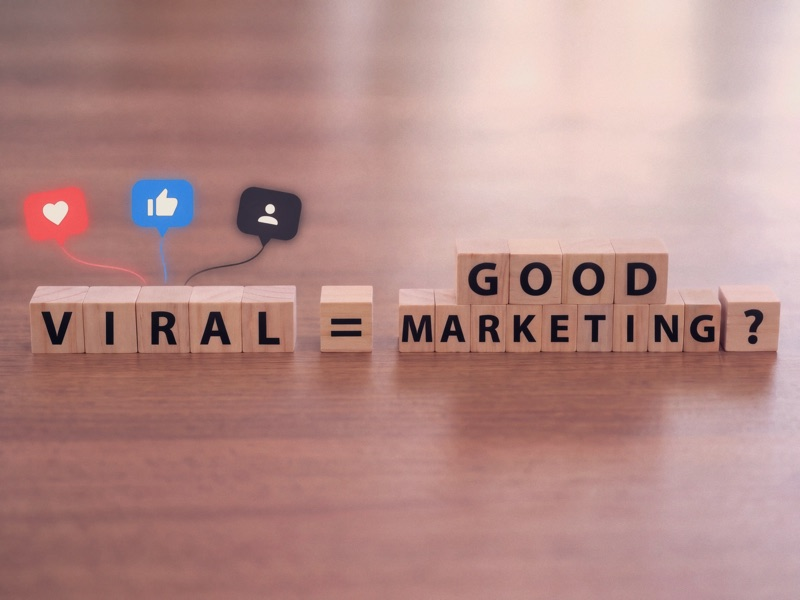
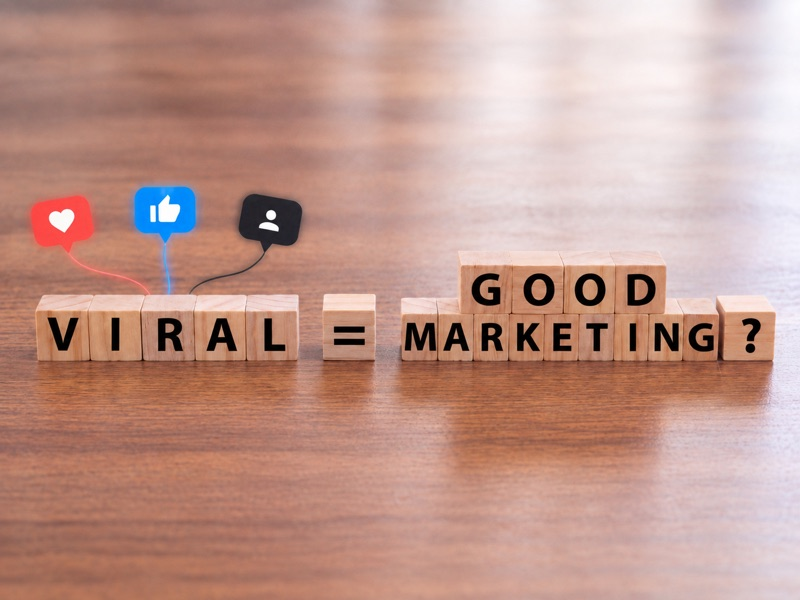
Swap in the sharper cover, trim the meta description, republish
Cover: replaced blog-you-dont-need-to-go-viral-cover.jpg/-sm.jpg with the
new drop (you don't need to be viral 2.png), a sharper version of the
same shot, already exactly 1448x1086 so no cropping was needed. Same
filenames as before, so no HTML changes required.

Broadened the raw-drop gitignore rule from "images/* final.png" (only
matched files literally ending " final.png") to "images/* *.png" /
"*.jpg" / "*.jpeg" - any filename with a space, which is a clean general
test since every real asset in images/ is kebab-case with no spaces by
the site's own convention. The previous narrower rule missed the two
other raw drops from this round ("you don't have to be viral final
2.png", "you don't need to be viral 2.png"); verified real assets like
the logo still aren't caught by the new pattern.

SEO: found the meta description running 187 characters - past Google's
~155-160 cutoff, so it was getting truncated in search results. Trimmed
to 148 characters, same meaning, applied everywhere it's duplicated
(<meta name="description">, og:description, twitter:description). Left
the listing page's visible excerpt (same original text) alone - that's
human-facing card copy with no search-snippet length limit, so shortening
it there would have been change for its own sake.

Confirmed elsewhere already correct and untouched: single h1 per page,
canonical URLs matching sitemap.xml exactly, robots.txt allowing /blog,
no noindex tag, title tag well under 60 characters.

diff --git a/blog-you-dont-need-to-go-viral.html b/blog-you-dont-need-to-go-viral.html
@@ -13,19 +13,19 @@
 <meta charset="utf-8" />
 <meta name="viewport" content="width=device-width, initial-scale=1" />
 <title>You Don't Need to go Viral | Navren</title>
-<meta name="description" content="Why most businesses do not need to go viral, what the research on audience targeting actually shows, and a four-step framework for marketing that produces outcomes instead of impressions." />
+<meta name="description" content="Why most businesses do not need to go viral, what the research on audience targeting shows, and a four-step framework for outcomes over impressions." />
 <link rel="canonical" href="https://navrenagency.com/blog-you-dont-need-to-go-viral" />
 <meta property="og:type" content="article" />
 <meta property="og:site_name" content="Navren" />
 <meta property="og:url" content="https://navrenagency.com/blog-you-dont-need-to-go-viral" />
 <meta property="og:title" content="You Don't Need to go Viral | Navren" />
-<meta property="og:description" content="Why most businesses do not need to go viral, what the research on audience targeting actually shows, and a four-step framework for marketing that produces outcomes instead of impressions." />
+<meta property="og:description" content="Why most businesses do not need to go viral, what the research on audience targeting shows, and a four-step framework for outcomes over impressions." />
 <meta property="og:image" content="https://navrenagency.com/images/blog-you-dont-need-to-go-viral-cover.jpg" />
 <meta property="og:image:width" content="1448" />
 <meta property="og:image:height" content="1086" />
 <meta name="twitter:card" content="summary_large_image" />
 <meta name="twitter:title" content="You Don't Need to go Viral | Navren" />
-<meta name="twitter:description" content="Why most businesses do not need to go viral, what the research on audience targeting actually shows, and a four-step framework for marketing that produces outcomes instead of impressions." />
+<meta name="twitter:description" content="Why most businesses do not need to go viral, what the research on audience targeting shows, and a four-step framework for outcomes over impressions." />
 <meta name="twitter:image" content="https://navrenagency.com/images/blog-you-dont-need-to-go-viral-cover.jpg" />
 <link rel="icon" type="image/png" sizes="144x144" href="favicon-144-light.png" media="(prefers-color-scheme: light)" />
 <link rel="icon" type="image/png" sizes="144x144" href="favicon-144-dark.png" media="(prefers-color-scheme: dark)" />
